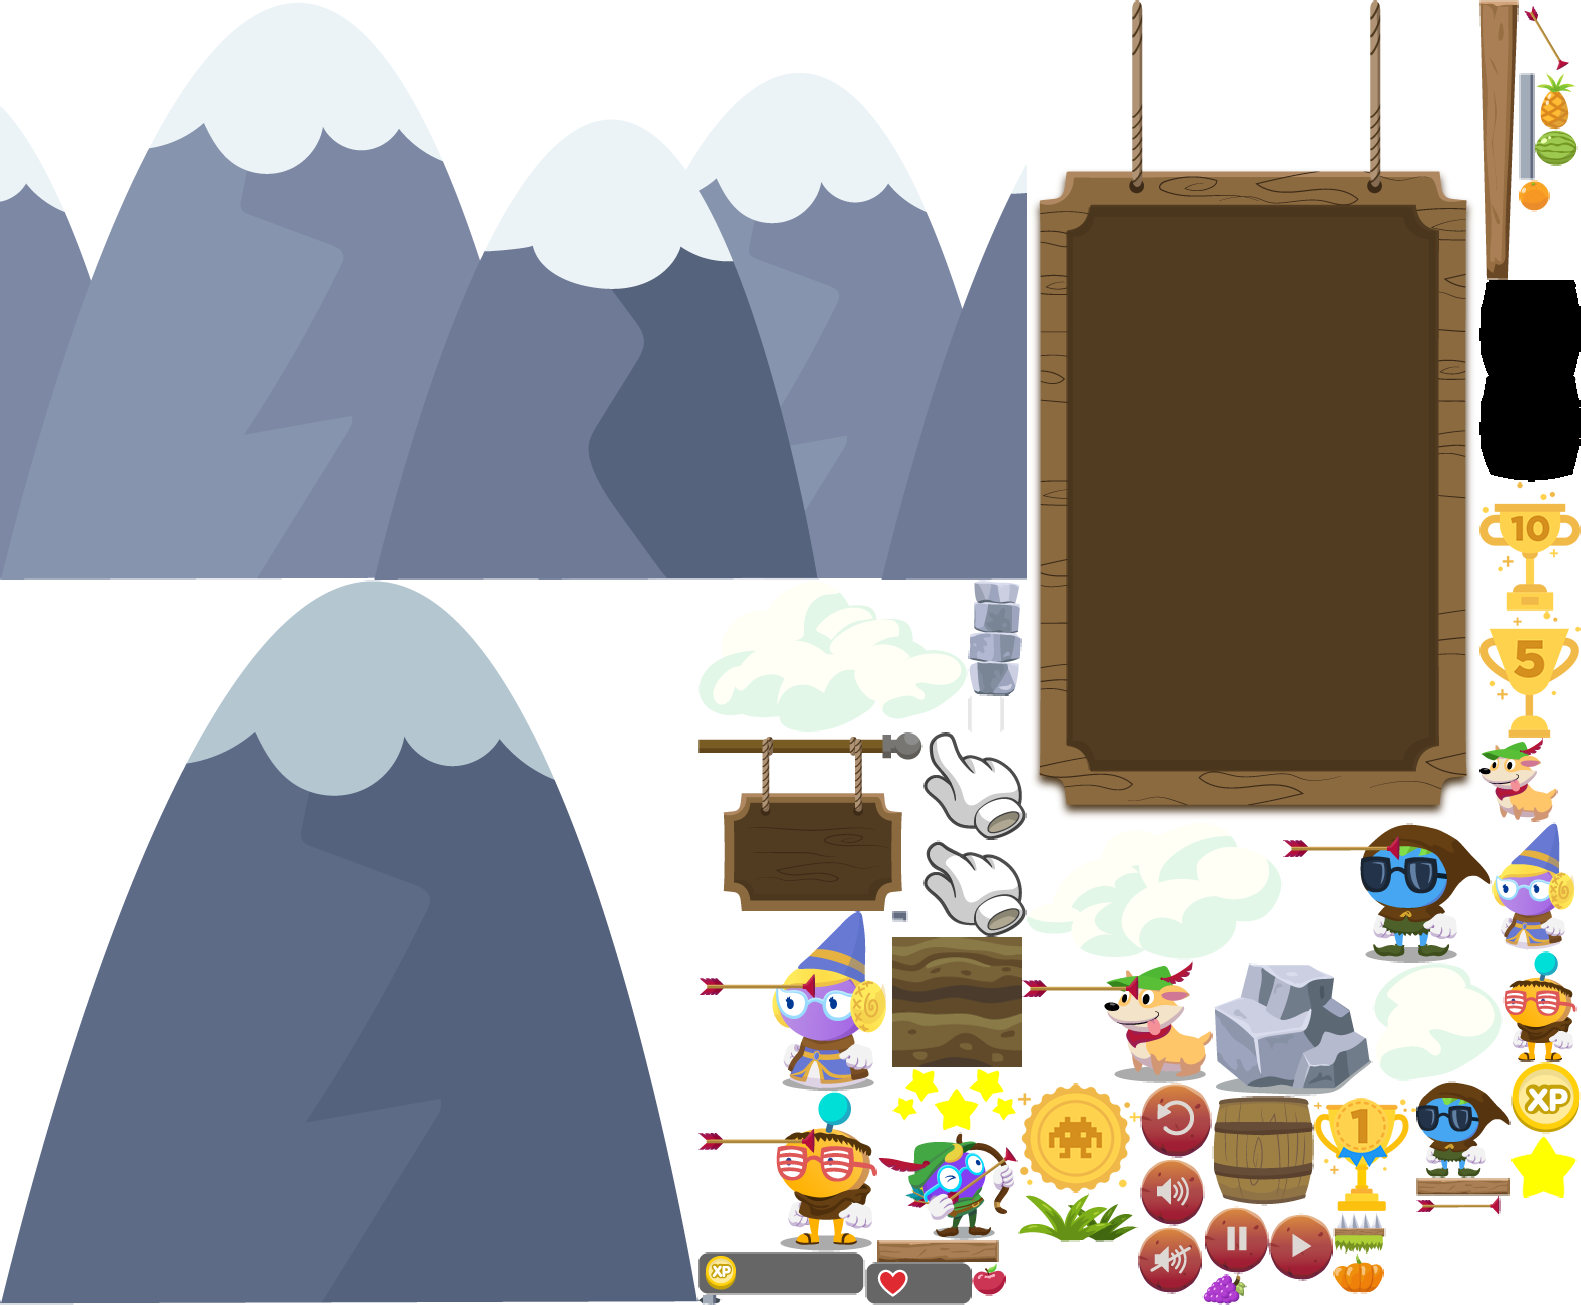
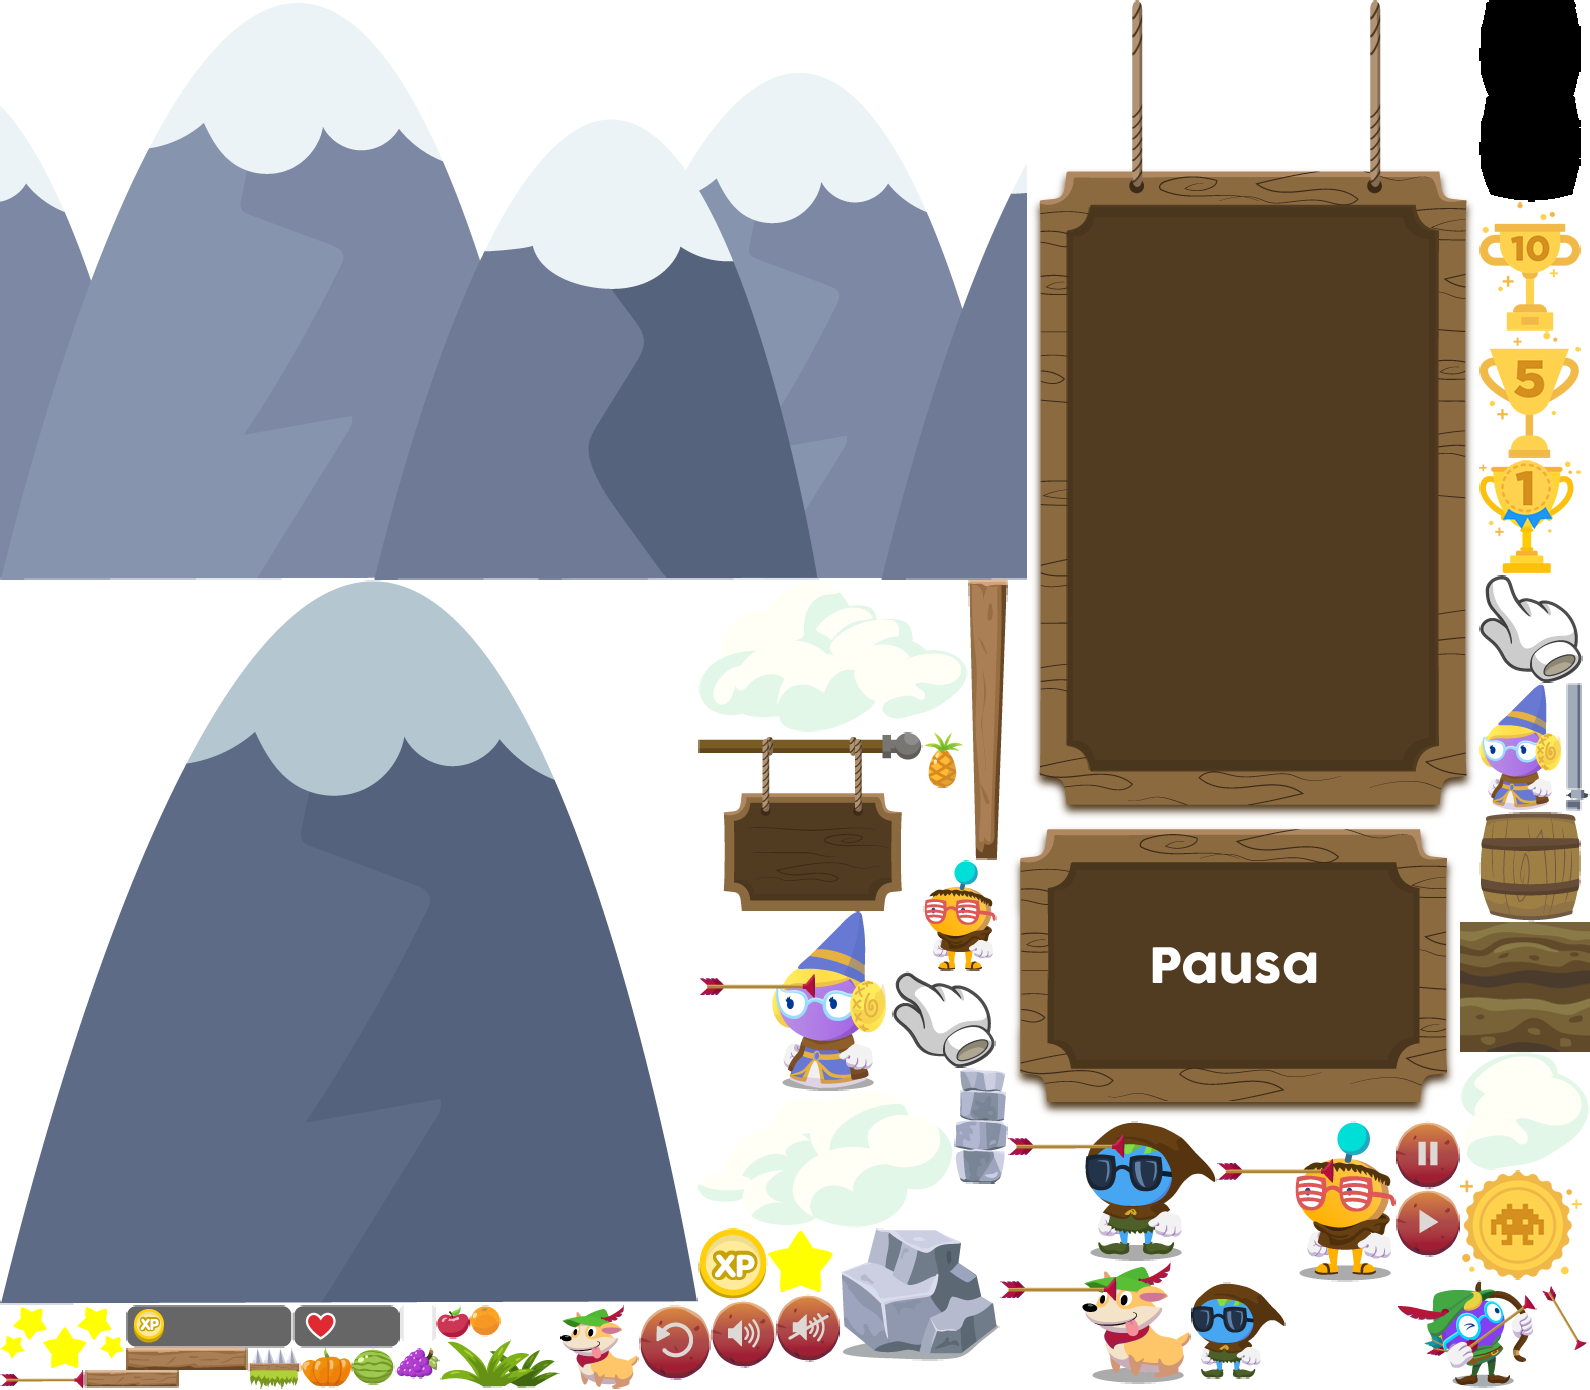
amazing, wonderhood app fix

diff --git a/minigames/wonderHoodApp/js/scenes/wonderHood.js b/minigames/wonderHoodApp/js/scenes/wonderHood.js
@@ -127,7 +127,7 @@ var wonderHood = function(){
     var hand, inTutorial, tutorialTimeOut
 
     var gameOverGroup, gameOverPoints, gameOverPlace, gameOverTop, gameOverDude, gameOverTrophy, gameOverBack, gameOverButtonExit, gameOverCoin
-
+    var pauseImage 
     function loadSounds(){
         sound.decode(assets.sounds)
     }
@@ -629,6 +629,7 @@ var wonderHood = function(){
                             hand.visible = false
                         }
                         else if(inTutorial == 1 && currentAngle >= 20){
+                        	//hand.visible = false
                             currentAngle = 20
                             inTutorial = 2
                             hand.visible = true
@@ -651,6 +652,11 @@ var wonderHood = function(){
                         hand.visible = true
 	            	}
 	                else if(currentAngle != 0 && currentAngle < MAX_ANGLE && inTutorial!=0){
+	                	if(tutorialTimeOut != null){
+	                        clearTimeout(tutorialTimeOut)
+	                    }
+	                    hand.visible = false
+
 	                    dotsGroup.visible = false
 	                    for(var i =0; i < dotsGroup.length; i++){
 	                    	dotsGroup.children[i].x = -10
@@ -779,10 +785,17 @@ var wonderHood = function(){
         currentArrow.body.velocity.y = 0
         currentArrow.contactSignal.active = false
         inShot = false
+
     }
 
+
+
     function eliminateArrow(){
-        //console.log("eliminate arrow")
+        
+        var params = {
+	        type: "vibrate"
+	    }
+	    parent.postMessage(JSON.stringify(params), "*")
         for(var i = 2; i >=0; i--){
             if(letrero.arrows[i].visible){
                 letrero.arrows[i].visible = false
@@ -1640,7 +1653,7 @@ var wonderHood = function(){
     function pasueGame(){
         
         game.paused = !game.paused
-
+        pauseImage.visible = game.paused
         if(game.paused){
             pauseButton.loadTexture("atlas.game","play")
         }
@@ -1805,6 +1818,10 @@ var wonderHood = function(){
         setTimeout(startTutorial,1000)
 
         game.input.onDown.add(unpause, self);
+
+        pauseImage = sceneGroup.create(game.world.centerX,game.world.centerY,"atlas.game","Pausa_tablero")
+        pauseImage.anchor.setTo(0.5)
+        pauseImage.visible = false
 
         createGameOver()
 
